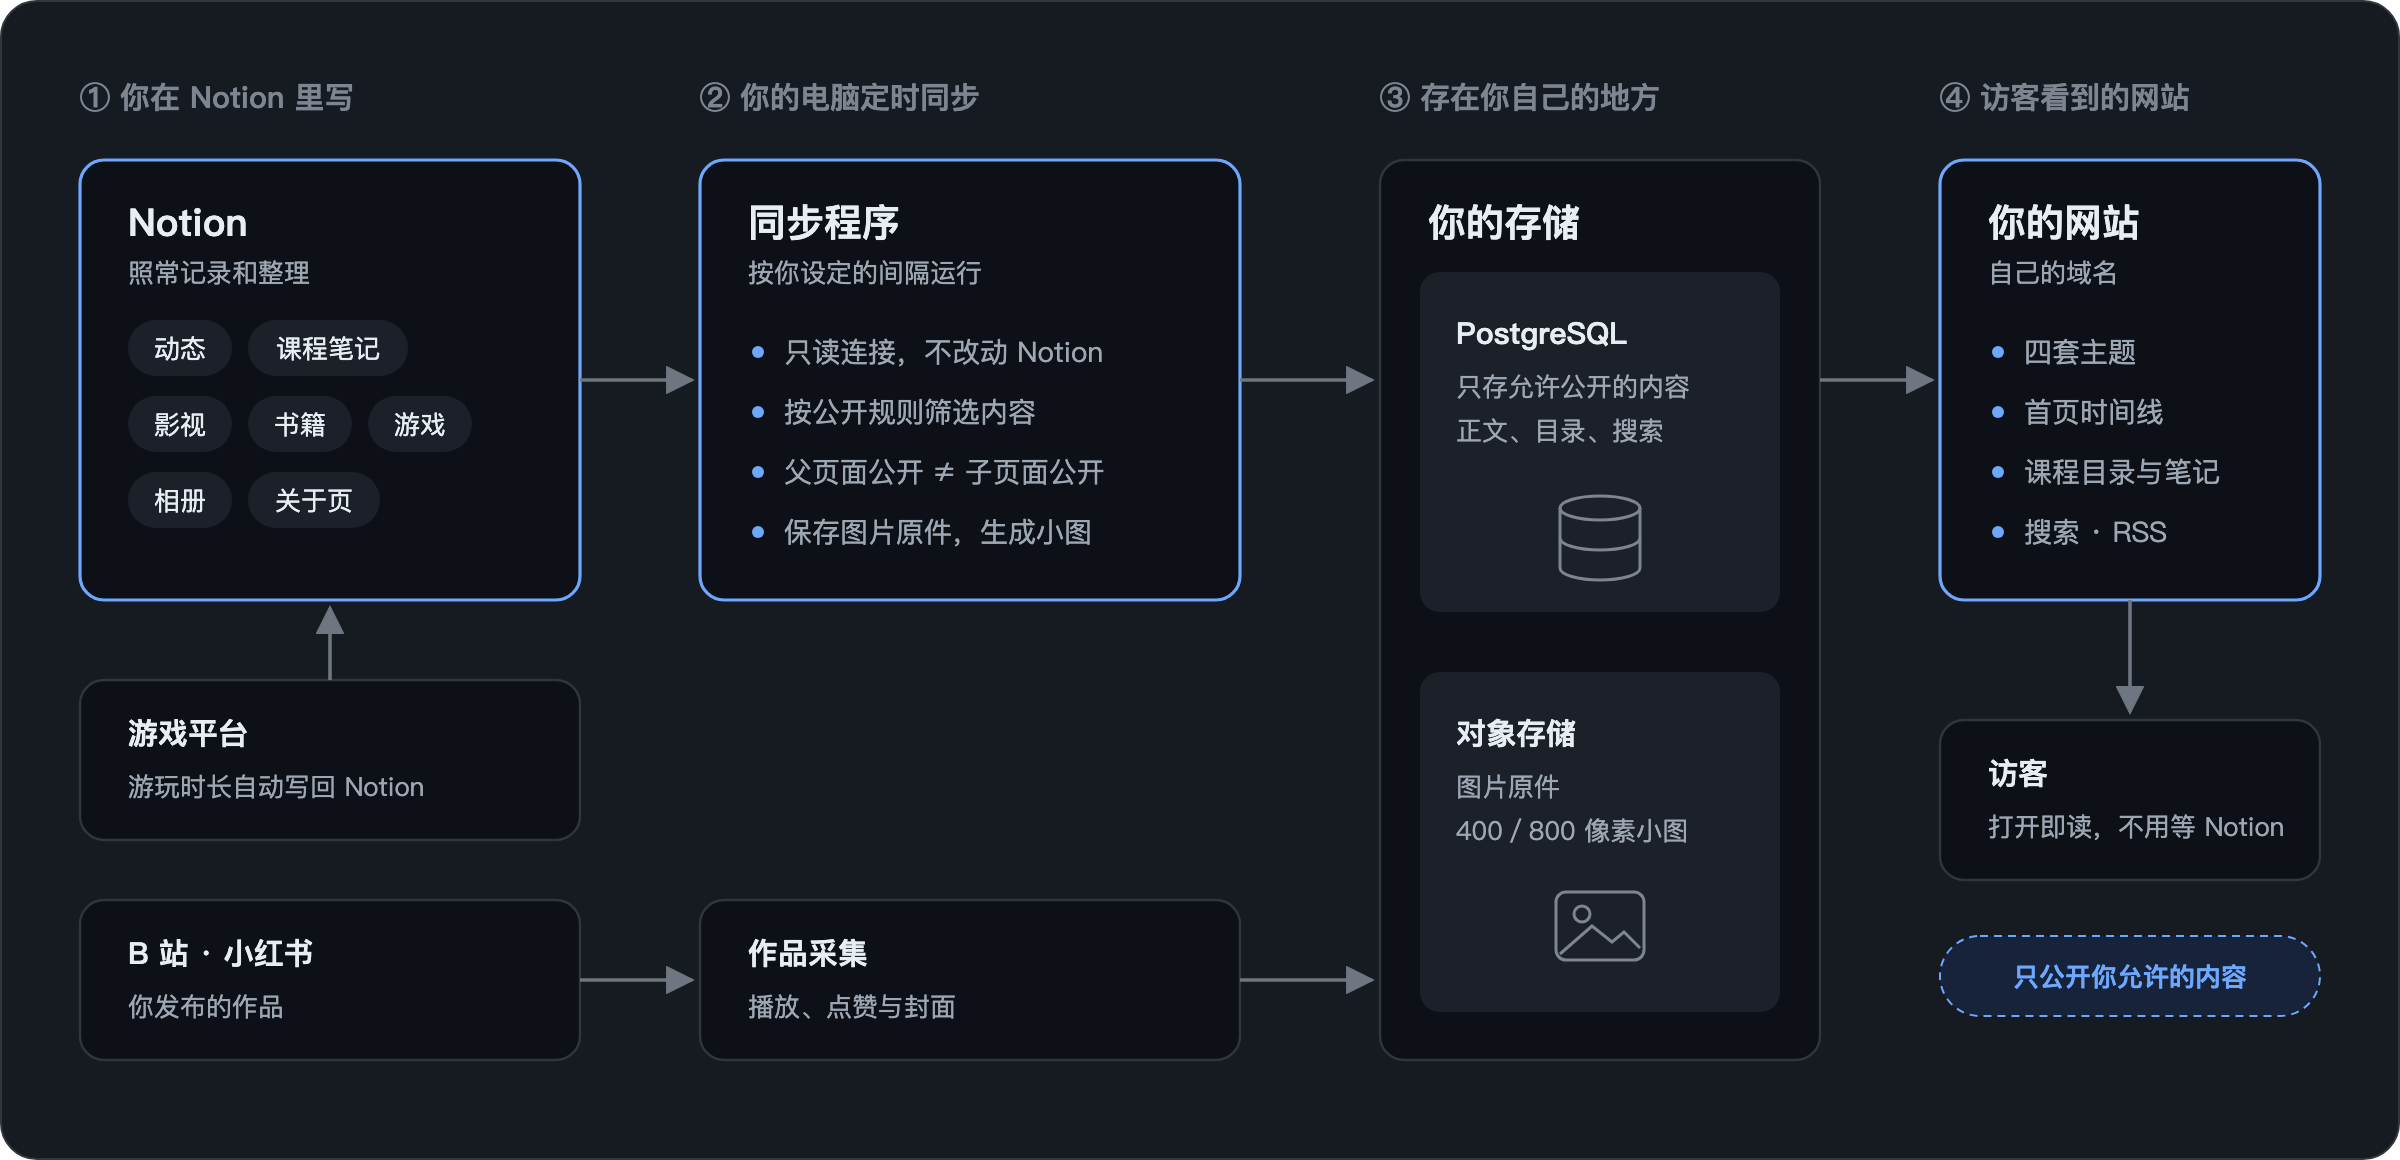
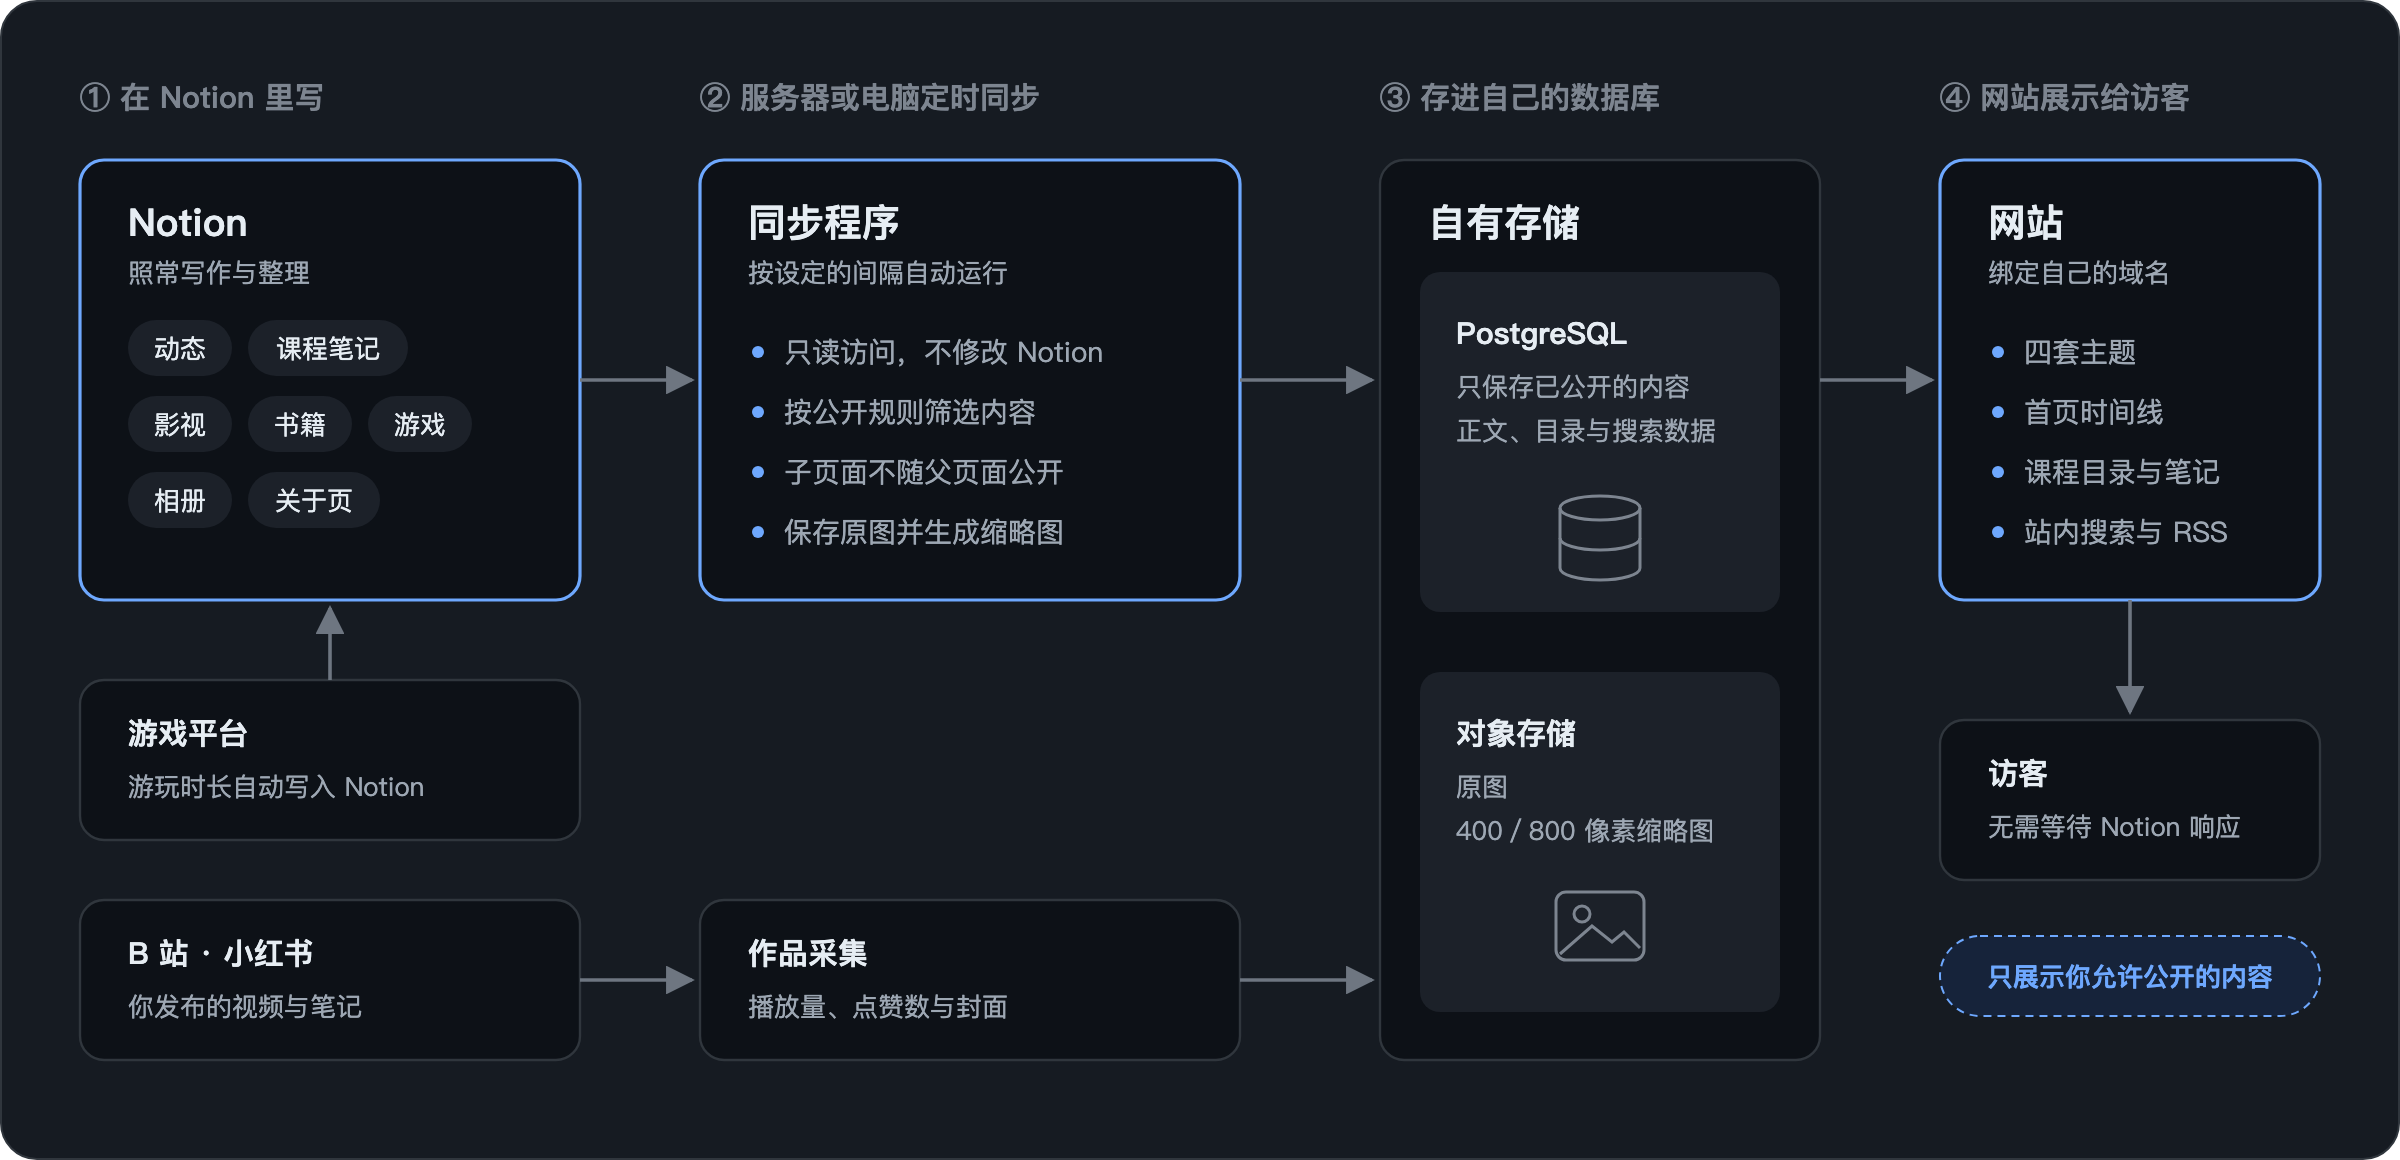
docs: refine README diagram wording
Label the sync column as running on a server or computer, give each
card a plain noun title instead of repeating "your", and tidy the card
text (read-only access, child pages are not published with their
parent, originals and thumbnails, published content only). Update the
image alt text to match. Layout and colours are unchanged.

diff --git a/docs/progress/2026-10-23-readme-diagram-wording.md b/docs/progress/2026-10-23-readme-diagram-wording.md
@@ -1,0 +1,20 @@
+# 2026-10-23：README 结构图改措辞（Claude）
+
+用户看过 README 结构图后，要求把“你的电脑定时同步”改成服务器或电脑，并理顺其他读起来别扭的文字。改后的浅色与深色预览已由用户确认。
+
+## 改了什么
+
+- 第二栏标题改为“服务器或电脑定时同步”。另外三栏改为“在 Notion 里写”“存进自己的数据库”“网站展示给访客”。
+- 卡片名统一成名词：Notion、同步程序、自有存储、网站，不再每张都叫“你的××”。
+- 卡片里的说明改得更规范，例如“只读访问，不修改 Notion”“子页面不随父页面公开”“保存原图并生成缩略图”“只保存已公开的内容”“无需等待 Notion 响应”“只展示你允许公开的内容”。
+- README 里结构图的替代文字同步改为“服务器或电脑上定时运行”。
+
+只改了 `docs/assets/readme/architecture.svg` 中的文字，布局与配色不变，并重新导出 `architecture-light.png` 与 `architecture-dark.png`。
+
+## 验证
+
+用本机 Chrome 无头模式经 DevTools 协议，按 1200 × 580、两倍像素渲染两张图，逐一看过，文字没有溢出或被裁切。做了记录格式测试、README 本地链接与图片核对、PNG 元数据检查、隐私检查和差异复核。只改了文档与文档图片，未重跑 check／build。
+
+## 限制与下一项
+
+发布请求 #55 打开期间按约定暂缓向 develop 合并，等它合并后再合入。main 要等下一次发布才会更新。

diff --git a/README.md b/README.md
@@ -149,7 +149,7 @@ npm run dev
 
 <picture>
   <source media="(prefers-color-scheme: dark)" srcset="docs/assets/readme/architecture-dark.png" />
-  <img src="docs/assets/readme/architecture-light.png" alt="内容流向：在 Notion 里写，同步程序在你的电脑上按公开规则筛选，写进你的 PostgreSQL 和对象存储，网站从这里读取并展示给访客；游戏平台的游玩时长写回 Notion，B 站与小红书作品由作品采集程序单独写入" />
+  <img src="docs/assets/readme/architecture-light.png" alt="内容流向：在 Notion 里写，同步程序在服务器或电脑上定时运行、按公开规则筛选，写进自有的 PostgreSQL 和对象存储，网站从这里读取并展示给访客；游戏平台的游玩时长自动写入 Notion，B 站与小红书作品由作品采集程序单独写入" />
 </picture>
 
 公开与否在同步和读取时就判断好，网站拿到的只有允许公开的内容。缺日期、封面或评分时如实留空，不会编造。
